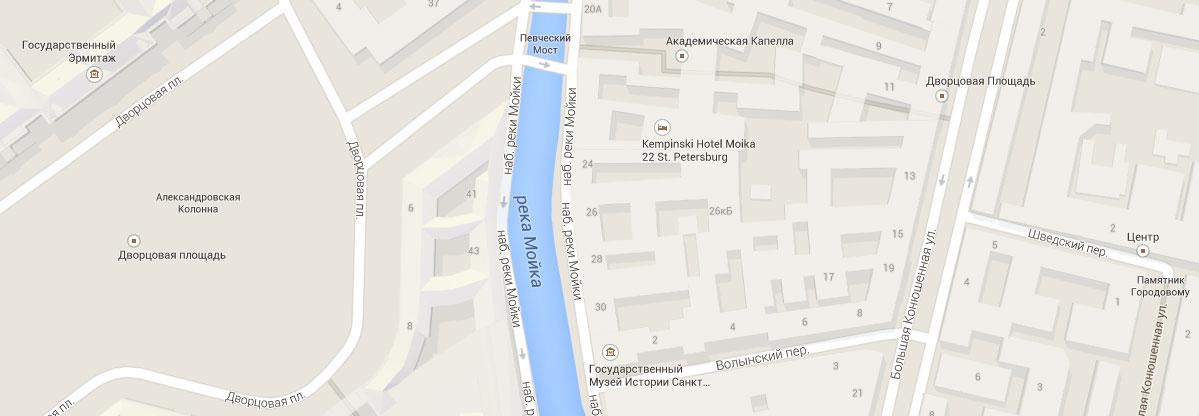
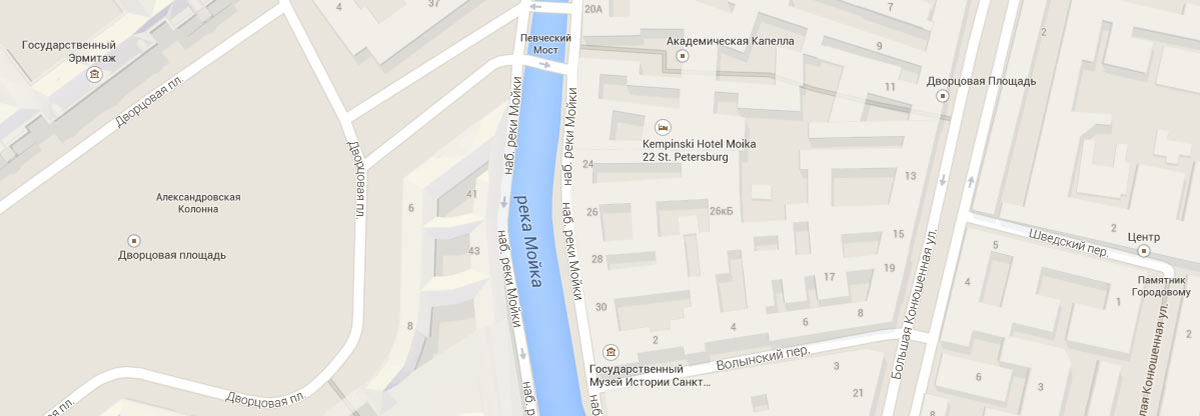
maps_v2

diff --git a/css/style.css b/css/style.css
@@ -30,6 +30,7 @@ h1, h2, p {
 .main-navigation {
     float: left;
     width: 400px;
+    min-height: 35px;
     padding-top: 53px;
 }
 .main-navigation-list {
@@ -79,6 +80,7 @@ h1, h2, p {
 .user-block {
     float: right;
     max-width: 100px;
+    min-height: 35px;
     margin-left: 56px;
     padding-top: 53px;
     margin-right: 2px;
@@ -146,6 +148,9 @@ h1, h2, p {
     background-repeat: no-repeat;
     background-position: 100% 10px;
 }
+.slide:nth-child(3) p {
+    letter-spacing: 0.1px;
+}
 .slide-text {
     width: 500px;
     padding: 31px 0;
@@ -168,7 +173,7 @@ h1, h2, p {
     width: 240px;
     height: 38px;
     box-sizing: border-box;
-    margin-top: 28px;
+    margin-top: 27px;
     margin-left: 1px;
     padding: 8px 0px;
     font-weight: 300;
@@ -266,34 +271,37 @@ h1, h2, p {
     color: #ffffff;
 }
 .web {
-    background-color: rgb(251, 86, 90);
+    background-color: #fb565a;
 }
 .web:hover{
-    background-color: rgb(214, 73, 77);
+    background-color: #d6494d;
 }
 .web:active{
-    background-color: rgb(182, 53, 56);
+    background-color: #b63538;
+    box-shadow: inset 0px 17px 0 -14px #9b2d30;
 }
 .apps {
-    background-color: rgb(0, 202, 116);
+    background-color: #00ca74;
 }
 .apps:hover {
-    background-color: rgb(1, 162, 94);
+    background-color: #01a25e;
 }
 .apps:active {
-    background-color: rgb(0, 144, 83);
+    background-color: #009053;
+    box-shadow: inset 0px 17px 0 -14px #007b47;
 }
 .presentations {
-    background-color: rgb(239, 200, 74);
+    background-color: #efc84a;
 }
 .presentations:hover {
-    background-color: rgb(214, 174, 44);
+    background-color: #d6ae2c;
 }
 .presentations:active {
-    background-color: rgb(192, 155, 36);
+    background-color: #c09b24;
+    box-shadow: inset 0px 17px 0 -14px #a3841f;
 }
 .index-content {
-    padding-top: 43px;
+    padding-top: 41px;
     padding-bottom: 71px;
     border-bottom: 2px solid #eeeeee;
 
@@ -304,10 +312,8 @@ h1, h2, p {
     margin-left: -2px;
 }
 .about-heading {
-    margin:0;
+    margin: 0;
     padding-top: 29px;
-    padding-right: 10px;
-    padding-bottom: 1px;
     font-size: 36px;
     line-height: 36px;
 }
@@ -317,11 +323,13 @@ h1, h2, p {
     word-spacing: 2px;
 }
 .about-company p {
-    padding-right: 10px;
-    padding-bottom: 28px;
+    padding-top: 2px;
     font-size: 16px;
-    word-spacing: 0.2px;
+    word-spacing: 0.4px;
     letter-spacing: 0.1px;
+}
+.index-content-left .content-list {
+    padding-top: 28px;
 }
 .list-title {
     font-size: 16px;
@@ -372,7 +380,7 @@ h1, h2, p {
     text-transform: uppercase;
     padding-left: 49px;
     padding-top: 27px;
-    padding-bottom: 71px;
+    padding-bottom: 72px;
 }
 .right-logo-sub::before {
     content: "";
@@ -395,7 +403,7 @@ h1, h2, p {
     background-color: #eeeeee;
 }
 .partners {
-    padding-top: 36px;
+    padding-top: 35px;
     padding-bottom: 20px;
     font-size: 0px;
     border-bottom: 2px solid #eeeeee;
@@ -403,6 +411,7 @@ h1, h2, p {
 .partners-logo {
     display: inline-block;
     vertical-align: top;
+    line-height: 40px;
     padding-top: 19px;
     width: 220px;
     margin-right: 94px;
@@ -425,10 +434,13 @@ h1, h2, p {
 }    
 .map-image {
     position: relative;
-    margin: 86px auto 0 auto;
+    margin: 84px auto 0 auto;
+    padding-left: 1px;
     width: 1200px;
     height: 416px;
     z-index: 1;
+    background-image: url("../img/map.jpg");
+    background-repeat: no-repeat;
 }
 .map-image::before {
     content: "";
@@ -439,14 +451,14 @@ h1, h2, p {
     min-height: 190px;
     background-image: url("../img/logo-nerds-map.png");
     background-repeat: no-repeat;
-    z-index: 2;
+    z-index: -1;
 }
 .address-block {
     position: absolute;
-    top: 86px;
+    top: 88px;
     width: 250px;
     height: 240px;
-    left: 159px;
+    left: 160px;
     background-color: #ffffff;
     z-index: 2;
 }
@@ -455,8 +467,8 @@ h1, h2, p {
     font-size: 16px;
     line-height: 30px;
     letter-spacing: 0.1px;
-    margin-top: 26px;
-    padding: 0 21px;
+    margin-top: 24px;
+    padding: 0 20px;
     text-transform: uppercase;
 }
 .address-block p {
@@ -495,7 +507,7 @@ h1, h2, p {
 }
 .footer-social {
     float: left;
-    width: 240px; 
+    width: 242px; 
 }
 .social-btn {
     display: inline-block;
